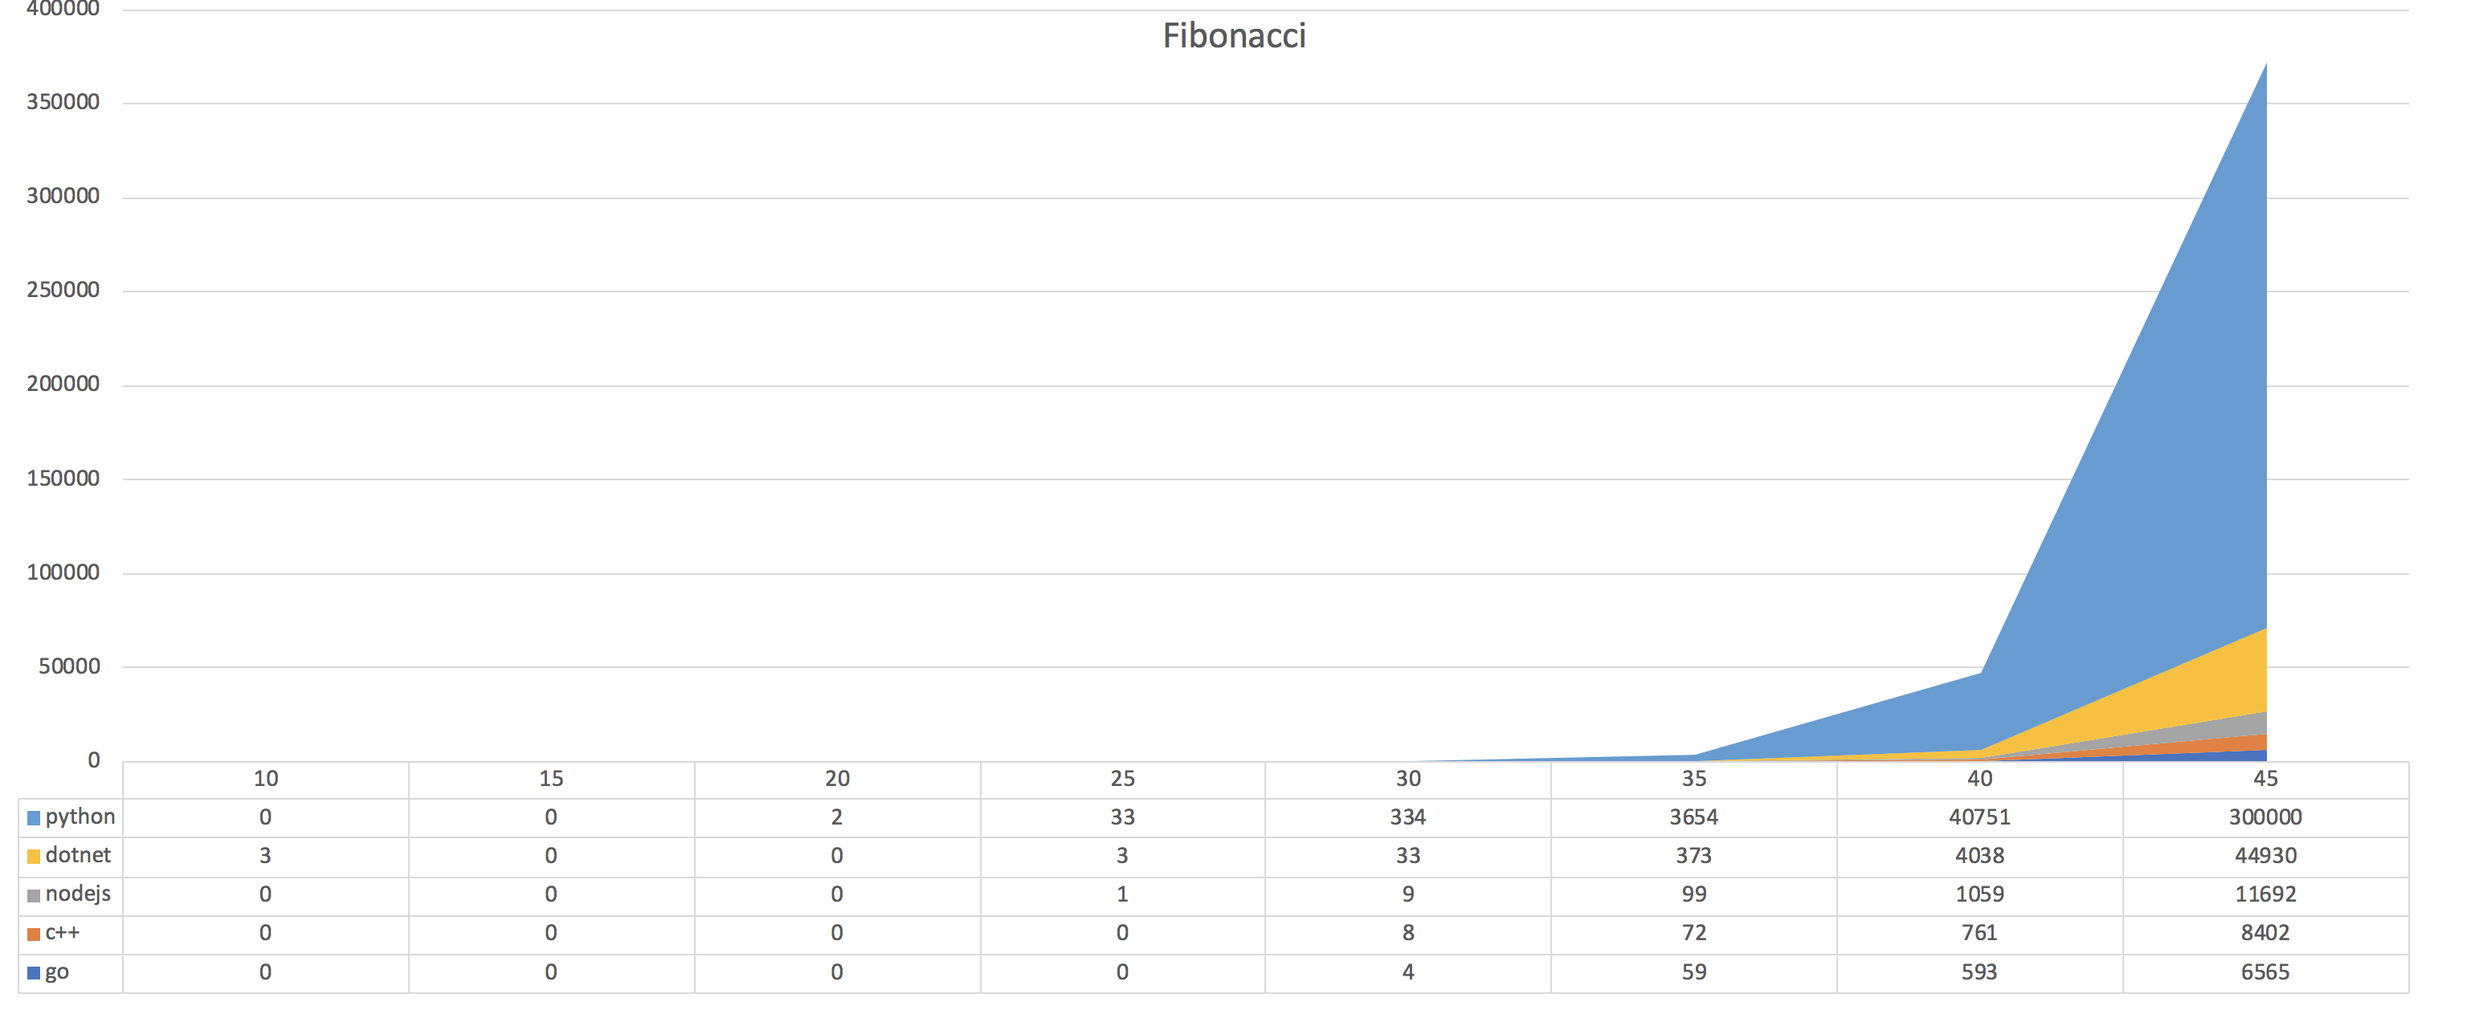
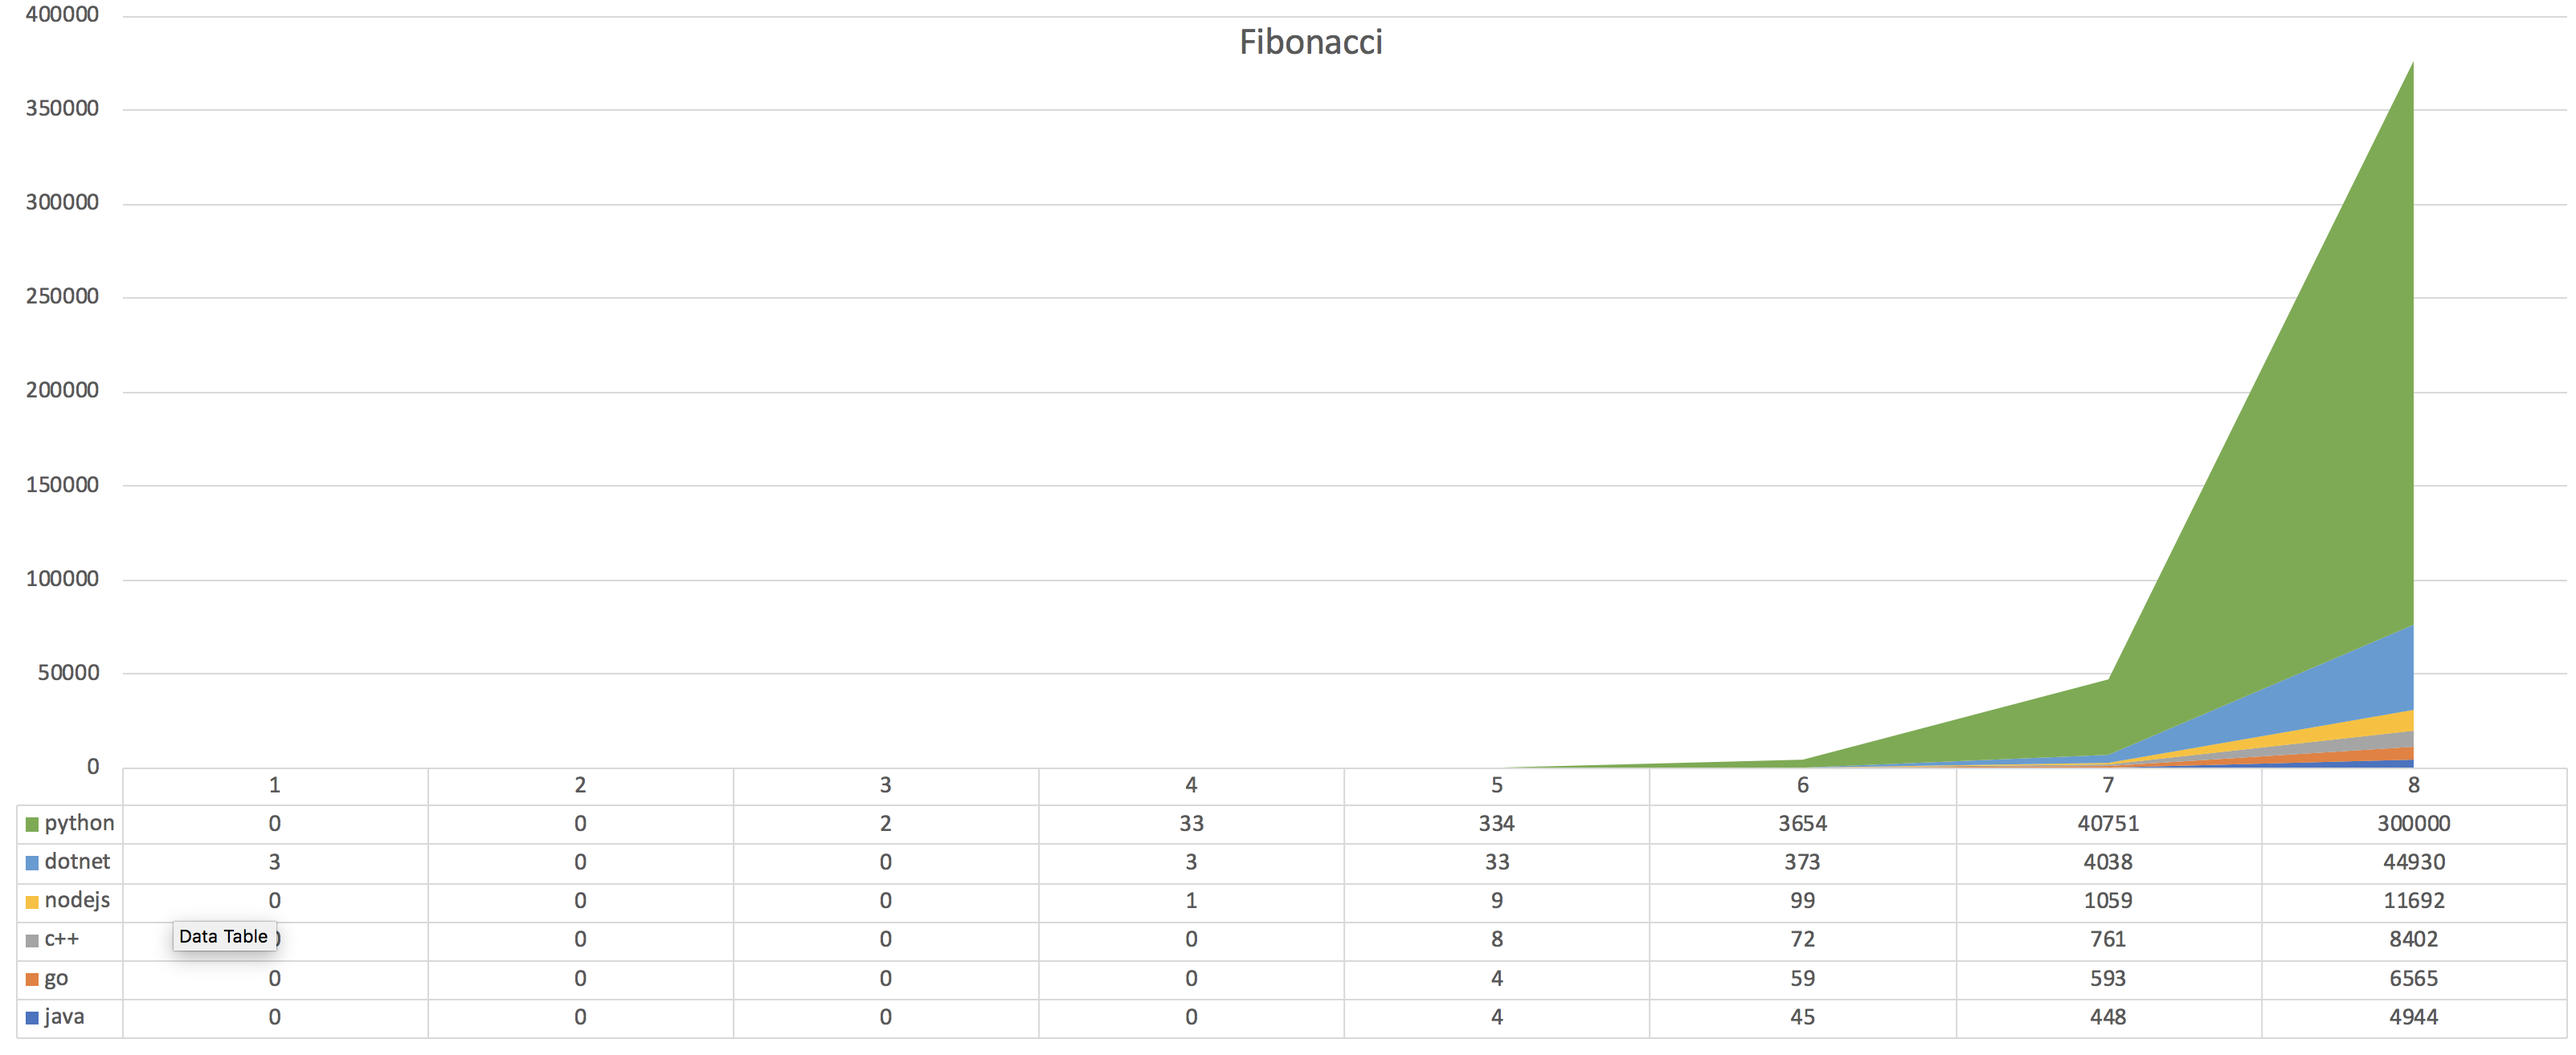
java update

diff --git a/README.md b/README.md
@@ -1,7 +1,7 @@
 # Fibonacci
-## golang vs. c++ vs. nodejs vs. python vs. dotnet core c# 
+## java vs. golang vs. c++ vs. nodejs vs. dotnet core c# vs. python 
 
-Comparison of fibonacci method execution speed between those 5 languages
+Comparison of fibonacci method execution speed between those languages
 
 Result:
-![Comparison of fibonacci method execution speed between golang, c++, nodejs, python, dotnet core c#](result.png)
+![Comparison of fibonacci method execution speed between java, golang, c++, nodejs, dotnet core c#, python](result.png)
